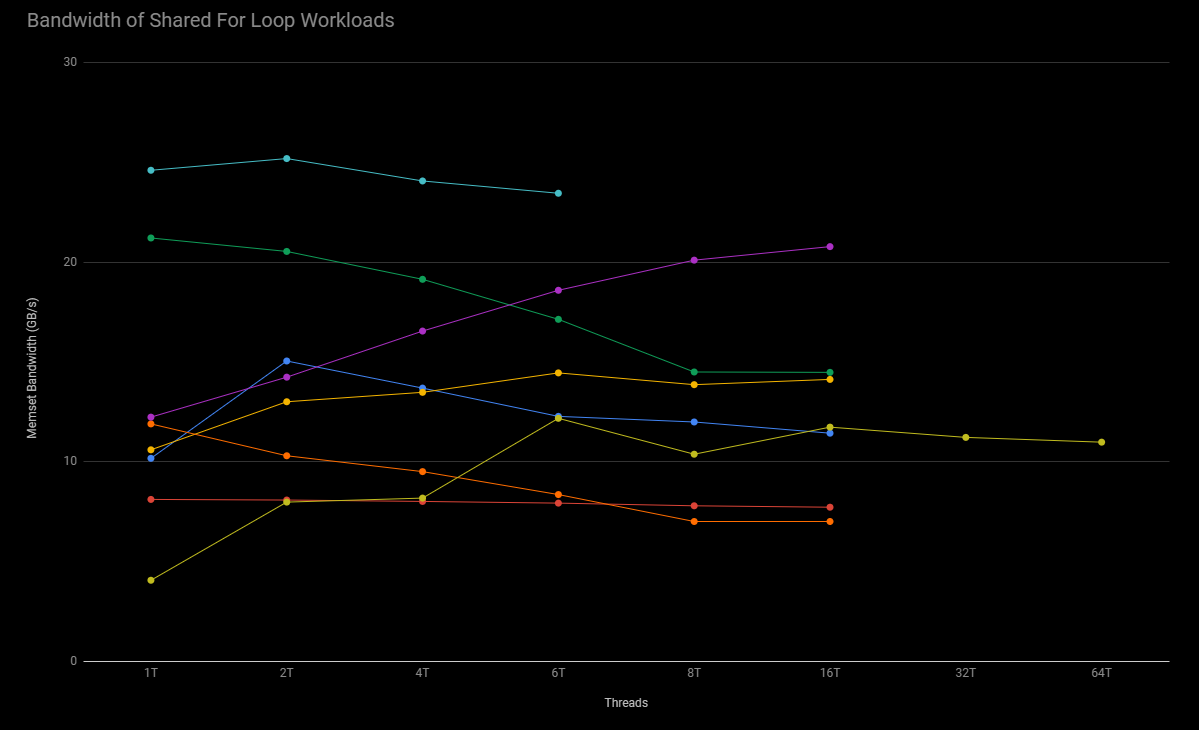
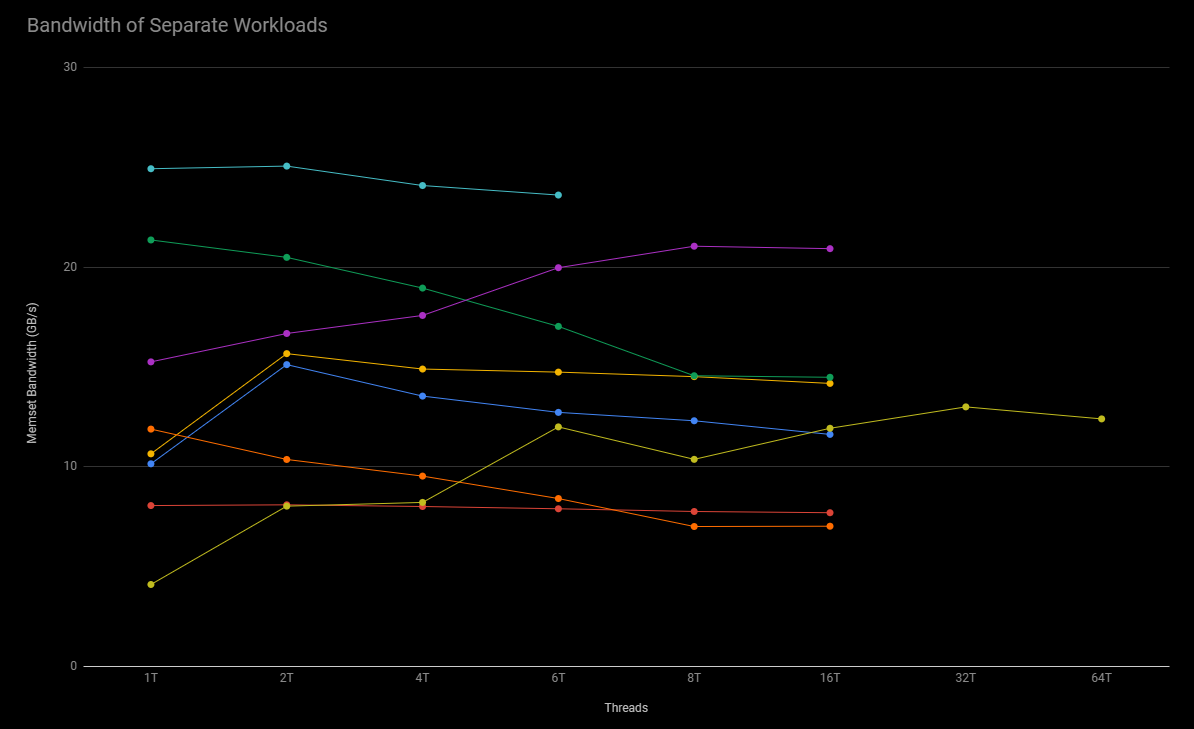
add all changes along with new graphs for article

diff --git a/src/Components/ArticlePage/ArticlePage.js b/src/Components/ArticlePage/ArticlePage.js
@@ -1,7 +1,10 @@
 import _ from 'lodash'
 import React, { Component } from 'react'
 import processors from './processors.png'
+import processors2 from './processors2.png'
 import graph from './graph.png'
+import graph1 from './graph1.png'
+import graph2 from './graph2.png'
 import logo from './logo.png'
 import { BrowserRouter as Router, Route, Link } from "react-router-dom";
 import ContactPage from '../ContactPage/ContactPage'
@@ -11,6 +14,7 @@ import {
     Button,
     Container,
     Divider,
+    Item,
     Dropdown,
     Grid,
     Header,
@@ -60,21 +64,46 @@ const fixedOverlayMenuStyle = {
     left: '800px',
 }
 
-const LeftImage = () => (
-    <Image
-        floated='left'
-        size='medium'
-        src={processors} alt="processors"
-        style={{ margin: '2em 2em 2em -4em' }}
-    />
-)
-
 const RightImage = () => (
     <Image
         floated='right'
         size='medium'
         src={graph} alt="graph"
       style={{ margin: '2em -4em 2em 2em' }}
+    />
+
+)
+const NameImage = () => (
+    <Image
+        floated='left'
+        size='medium'
+        src={processors} alt="processors"
+       
+    /> 
+)
+const SecondRightImage = () => (
+    <Image
+        floated='right'
+        size='medium'
+        src={graph1} alt="graph1"
+        style={{ margin: '2em -4em 2em 2em' }}
+    />
+)
+const SecondGraphImage = () => (
+    <Image
+        floated='right'
+        size='medium'
+        src={graph2} alt="graph2"
+        style={{ margin: '2em -4em 2em 2em' }}
+    />
+)
+
+const SecondProcessorsImage = () => (
+    <Image
+        floated='right'
+        size='medium'
+        src={processors2} alt="processors2"
+        style={{ margin: '2em -4em 2em 2em' }}
     />
 )
 
@@ -92,25 +121,87 @@ const Paragraph = () => (
         ].join('')}
     </p>
 )
+const typelist = ['Ryzen 5 2600 @4.0GHz',
+    '2x 4GB XPG DDR4 2666 16 - 16 - 16 - 39',
+    'Asrock x370 Taichi',
+    'intel 760p 512GB SSD',
+    'MSI V1 Radeon RX 580 8GB',
+    'Corsair HX 1200 Platinum']
+const listItems = (list) => list.map((item) =>
+    <li>{item}</li>
+);
 const SecondParagraph = () => (
     <p>
         {[
-            'The main purpose of this is to test the bandwidth available for this operation and compare various memory configurations as well as various systems. For our initial testing, the benchmark will run on following systems to attain the results for the comparison:\r\nRyzen 5 2600 @4.0GHz, dual channel 8GB DDR4 @2666MHz 16-16-16-39\r\nRyzen 5 2600 @4.0GHz, Single channel 8GB DDR4 @2666MHz 16-16-16-39\r\nRyzen 7 1700 @3.8GHz, dual channel 8GB DDR4 @2666MHz 16-16-16-39\r\nIntel i7-3632-QM, dual channel 8GB DDR3 @1666MHz 11-11-11-28\r\nIntel i7-3632-QM, Single channel 8GB DDR3 @1666MHz 11-11-11-28\r\nintel i7-7700K @4.2GHz, Dual channel 32GB DDR4 @3000MHz 15-17-17-35\r\nSnapdragon 845 SoC (Using Samsung S9+ with Termux)\r\nAMD Opteron 6348 x4, quad channel 64GB DDR3\r\n',
-            'The following chart shows the results of the benchmarks:\r\n\r\n\r\n\r\n\r\n\r\nIn terms of the two options to write to memory, there was not much significant differences, as the outcome is mainly dependent on the system that the program runs on.\r\n\r\n\r\nAs expected, we see single channel mode to be on the bottom. But what is more interesting is that under this method of writing to memory, intel does not scale with more threads whatsoever and the bandwidth only decrease as the number of threads increase which is potentially due to contention of resources and extra instructions.',
-            'Surprisingly, the Snapdragon system actually beats AMD for single threaded as well as the absolute maximum while the bandwidth slightly increases as the number of threads increase. As for our Ryzen system, the bandwidth appears to be maxed out at 2 threads and decreases as the number of threads increase. ',
-             'Lastly for our Opteron, we would give it an E for effort as it does scale from an increase in threads, it does not have a high throughput at all compared to the others.',
-        ].join('')}
-    </p>
+            'The main purpose of this is to test the bandwidth available for this operation and compare various memory configurations as well as various systems. For our initial testing, the benchmark will run on following systems to attain the results for the comparison:'].join('')}
+            </p>
+   
+    
+    
 )
 
 const ThirdParagraph = () => (
     <p>
         {[
-            '\r\nMemory Overclocks\r\nAs Ryzen is known to scale with memory overclocks we will proceed with our testing on our Ryzen systems. Our system for this test will be the 2600, as it had a higher maximum bandwidth at our initial test and \r\nwhy 2600 over the 1700?\r\nAlthough we do not know why the bandwidth scales\r\n The system for the test will be built with the following:\r\nRyzen 5 2600 @4.0GHz\r\n2x 4GB XPG DDR4 2666 16-16-16-39\r\nAsrock x370 Taichi\r\nintel 760p 512GB SSD\r\nMSI V1 Radeon RX 580 8GB\r\nCorsair HX 1200 Platinum\r\n\r\nTo start off, we begin with once again using the XMP profile of 2666MHz 16-16-16-39 for our baseline and the timings of 17-17-17-36 for our testings with variations in memory clocks as this is the lowest possible when the clock speed is maximized to 3000MHz. \r\n<chart>\r\nHere we can see that the bandwidth maximizes to 16.6 GB\/s with 3000MHz 17-17-17-36 and the bandwidth decreases as the memory frequency decrease.\r\n\r\nNext, we want to see what about the timings, what is the effect of having tighter timings while decreasing the clocked speed of the memory\r\n\r\nAs an added bonus for our final test to see if CPU clock speed affects memory, we ran the test wtih our 2600 at stock, 3.0GHz, and 2.5GHz.\r\n\r\nThere was not very much significant changes past 2 threads on my ryzen 2600 system with the maximum at when writing at 2 threads. The bottleneck appears to be due to dual channel.\r\nThis can be further confirmed when the memory is physically removed leaving 1 stick\r\n\r\n\r\nProgramming conclusion:\r\nMobile, supported instructions\r\noptimizations for intel\r\noptimizations for AMD\r\n\r\n\r\nOverclocking conclusion:\r\nIn general, while many common workloads do not depend on memory or use these type of instructions for memory, it still may be worth while to take advantage of the increase in performance\r\nIn terms of ryzen, as noted that this platform is dependent on memory it may be best to increase the clock speed while loosening the timings to get a more well rounded system for various workloads. As we can see, the timings did not have as much of a significant impact as the clock speed.\r\n\r\n',
+            'The following chart shows the results of the benchmarks:\r\n\r\n\r\n\r\n\r\n\r\nIn terms of the two options to write to memory, there was not much significant differences, as the outcome is mainly dependent on the system that the program runs on.\r\n\r\n\r\n\r\n\r\n\r\nAs expected, we see single channel mode to be on the bottom. But what is more interesting is that under this method of writing to memory, intel does not scale with more threads whatsoever and the bandwidth only decrease as the number of threads increase which is potentially due to contention of resources and extra instructions.',
+            'Surprisingly, the Snapdragon system actually beats AMD for single threaded as well as the absolute maximum while the bandwidth slightly increases as the number of threads increase. As for our Ryzen system, the bandwidth appears to be maxed out at 2 threads and decreases as the number of threads increase. ',
+            'Lastly for our Opteron, we would give it an E for effort as it does scale from an increase in threads, it does not have a high throughput at all compared to the others.',
+
+        ].join('')}
+    </p>,
+    <p>
+        {[
+            'As Ryzen is known to scale with memory overclocks we will proceed with our testing on our Ryzen systems. Our system for this test will be the 2600, as it had a higher maximum bandwidth at our initial test and \r\nwhy 2600 over the 1700?\r\nAlthough we do not know why the bandwidth scales\r\n ',
+             'The system for the test will be built with the following:',
+          
         ].join('')}
     </p>
+
 )
 
+
+const FourthParagraph = () => (
+    <p>
+        {[
+            'In both methods of writing to memory, we see that when running in single channel, the maximum bandwidth is attained by using only one thread. This is also significantly lower when compared to any of the dual channel modes except for dual channel at 1866MHz. ',
+'Next, consider the bandwidth of dual channel.In all cases, it appears that the bandwidth is maximized with two active threads running the algorithm. At each clock speed that was tested, we see that the bandwidth can be further maximized by tightening the timing. With the maximum bandwidth of 16.6GB/s with 3000MHz at 17-17-17-36, it appears that, when overclocking memory, the best case seems to be to prioritize the maximization of the frequency of the memory first before tightening up any timings.',
+        'As an added bonus for our final test to bring some closure to the insignificance of using Ryzen 7 1700 vs Ryzen 5 2600, we ran the test on our Ryzen 7 1700 at 1.6GHz to see if the older CPU with a lower clock speed affects memory. Please take a look at the following output:',
+        
+        'Therefore, we can see that the frequency of the CPU and an older architecture did not have any significance on this test as we were able to reach a bandwidth that is with minimal differences as the Ryzen 2600 running at 4GHz.',
+        
+        ].join('')}
+    </p>
+
+)
+
+
+
+const FifthParagraph = () => (
+    <p>
+        {[
+            '\r\n\r\n\r\n\r\n\r\n\r\nProgramming conclusion:',
+'\r\n\r\n\r\n\r\n\r\n\r\nFrom this test, it may appear that when writing programs that involves significant memory operations, it may be helpful to consider the following.',
+'For mobile applications, the bandwidth scales well with an increase in the number of threads actively writing to memory.So to optimize mobile applications, one may consider liberally using all the cores available to their disposal.',
+        'Applications written for the intel platform may consider only utilizing one thread, unless the parallized nature of the application have other requirements.When writing with only one thread the application can leave resources to other parts of the application or other applications for a more overall optimal use of resources.',
+        'Optimizations for AMD on the other hand may be best to write in parallel.If the program can be written to utilize multiple threads, one may consider only using two threads active at a time for memory operations.We saw evidence of this with the bandwidth being maximized at two threads and slowly decreases as the number of threads increases.',
+        
+        '\r\n\r\n\r\n\r\n\r\n\r\nOverclocking conclusion:',
+        '\r\n\r\n\r\n\r\n\r\n\r\nIn general, while many common workloads do not depend on memory or use these type of instructions for memory, it still may be worthwhile to take advantage of the increase in performance.Personally, from testing on the Ryzen platform, I have a preference on maximizing the frequency of the memory over tightening the timings of memory.Especially since Ryzen is dependent on memory it may be better  to increase the clock speed while loosening the timings to get a more well rounded system for various workloads.' ,
+        'If one would like to make use of this tool, feel free to clone it from the GitHub repo and run it to optimize their memory overclock.To run the application after cloning the repo please refer to the README document.',
+        
+                ].join('')}
+    </p>
+
+)
+function DisplayList(list) {
+    return (
+        <div>
+            {list.map((item, index) => (
+                <Item key={index} item={item} />
+            ))}
+        </div>
+    );
+}
 export default class StickyLayout extends Component {
     ToContact() {
         this.setState({
@@ -134,6 +225,21 @@ export default class StickyLayout extends Component {
             overlayFixed: false,
 
         };
+        this.secondlist = ['Ryzen 5 2600 @4.0GHz',
+        '2x 4GB XPG DDR4 2666 16 - 16 - 16 - 39',
+        'Asrock x370 Taichi',
+        'intel 760p 512GB SSD',
+        'MSI V1 Radeon RX 580 8GB',
+        'Corsair HX 1200 Platinum']
+        this.firstlist = [
+        'Ryzen 5 2600 @4.0GHz, Single channel 8GB DDR4 @2666MHz 16 - 16 - 16 - 39',
+        'Ryzen 7 1700 @3.8GHz, dual channel 8GB DDR4 @2666MHz 16 - 16 - 16 - 39',
+        'Intel i7 - 3632QM, dual channel 8GB DDR3 @1666MHz 11 - 11 - 11 - 28',
+        'Intel i7 - 3632QM, Single channel 8GB DDR3 @1666MHz 11 - 11 - 11 - 28',
+        'Intel i7 - 7700K @4.2GHz, Dual channel 32GB DDR4 @3000MHz 15 - 17 - 17 - 35',
+        'Snapdragon 845 SoC(Using Samsung S9 + with Termux)',
+        'AMD Opteron 6348 x4, quad channel 64GB DDR3',
+]
         this.ToMain = this.ToMain.bind(this);
         this.ToContact = this.ToContact.bind(this);
     }
@@ -270,12 +376,21 @@ export default class StickyLayout extends Component {
                     
                     />
                     <RightImage />
-
-     
+                   
                     <SecondParagraph />
-                    <LeftImage />
+                   
 
+                    <ul>{listItems(this.firstlist)}</ul>
+                    <SecondGraphImage />
+                    <NameImage />
                     <ThirdParagraph />
+                    <SecondRightImage />
+                    <ul>{listItems(this.secondlist)}</ul>
+              
+                    <FourthParagraph />
+                    <SecondProcessorsImage/>
+                    <FifthParagraph/>
+                   
                 
 
                     <Grid.Row>
@@ -285,64 +400,7 @@ export default class StickyLayout extends Component {
                     </Grid.Row>
                 </Container>
 
-                <Segment inverted style={{ margin: '5em 0em 0em', padding: '5em 0em' }} vertical>
-                    <Container textAlign='center'>
-                        <Grid columns={4} divided stackable inverted>
-                            <Grid.Row>
-                                <Grid.Column>
-                                    <Header inverted as='h4' content='Group 1' />
-                                    <List link inverted>
-                                        <List.Item as='a'>Link One</List.Item>
-                                        <List.Item as='a'>Link Two</List.Item>
-                                        <List.Item as='a'>Link Three</List.Item>
-                                        <List.Item as='a'>Link Four</List.Item>
-                                    </List>
-                                </Grid.Column>
-                                <Grid.Column>
-                                    <Header inverted as='h4' content='Group 2' />
-                                    <List link inverted>
-                                        <List.Item as='a'>Link One</List.Item>
-                                        <List.Item as='a'>Link Two</List.Item>
-                                        <List.Item as='a'>Link Three</List.Item>
-                                        <List.Item as='a'>Link Four</List.Item>
-                                    </List>
-                                </Grid.Column>
-                                <Grid.Column>
-                                    <Header inverted as='h4' content='Group 3' />
-                                    <List link inverted>
-                                        <List.Item as='a'>Link One</List.Item>
-                                        <List.Item as='a'>Link Two</List.Item>
-                                        <List.Item as='a'>Link Three</List.Item>
-                                        <List.Item as='a'>Link Four</List.Item>
-                                    </List>
-                                </Grid.Column>
-                                <Grid.Column>
-                                    <Header inverted as='h4' content='Footer Header' />
-                                    <p>
-                                        Extra space for a call to action inside the footer that could help re-engage
-                                        users.
-                  </p>
-                                </Grid.Column>
-                            </Grid.Row>
-                        </Grid>
-                        <Divider inverted section />
-                        <Image src='/logo.png' centered size='mini' />
-                        <List horizontal inverted divided link size='small'>
-                            <List.Item as='a' href='#'>
-                                Site Map
-              </List.Item>
-                            <List.Item as='a' href='#'>
-                                Contact Us
-              </List.Item>
-                            <List.Item as='a' href='#'>
-                                Terms and Conditions
-              </List.Item>
-                            <List.Item as='a' href='#'>
-                                Privacy Policy
-              </List.Item>
-                        </List>
-                    </Container>
-                </Segment>
+            
             </div>);
         if (this.state.ToContact === true) {
             view = (
